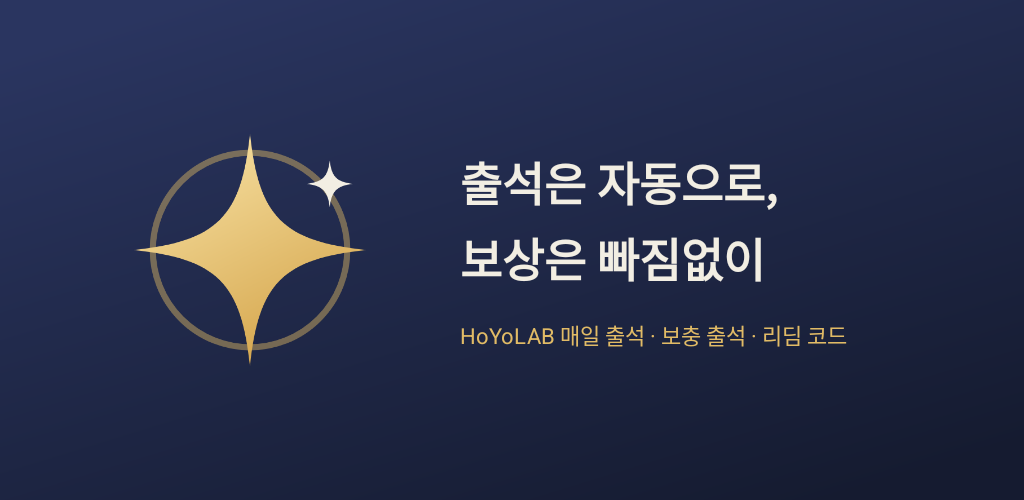
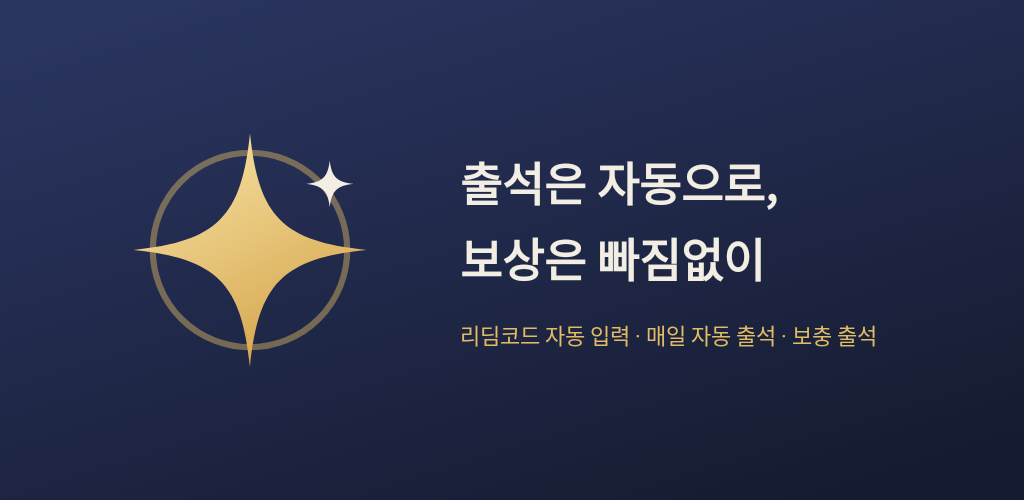
스토어: 리딤을 앞세운 문구와 스크린샷, 코드 공개 안내
- 스크린샷 3장에 큰 문구를 얹고 리딤 장면을 첫 장으로
- 대표 이미지 부제에서 리딤코드를 맨 앞으로
- 간단한 설명에 원석, 자세한 설명에 소스 공개 링크

Claude-Session: https://claude.ai/code/session_01AVkzu9p2ytMeGHejvvs68H

Changed region(s): [[0.4375, 0.63, 0.875, 0.69]]

diff --git a/app/src/test/java/kr/sumi/checkin/StoreAssetsTest.kt b/app/src/test/java/kr/sumi/checkin/StoreAssetsTest.kt
@@ -60,7 +60,7 @@ class StoreAssetsTest {
                 setTextColor(context.getColor(R.color.hero_ink))
             })
             addView(TextView(context).apply {
-                text = "HoYoLAB 매일 출석 · 보충 출석 · 리딤 코드"
+                text = "리딤코드 자동 입력 · 매일 자동 출석 · 보충 출석"
                 textSize = 22f
                 setPadding(0, 28, 0, 0)
                 setTextColor(context.getColor(R.color.gold))
@@ -87,18 +87,86 @@ class StoreAssetsTest {
         redeemSummary = "10월 18일 01:05 · 새 코드 1개 입력: OKTCV81F9H8D", historyUnseen = 3,
     )
 
-    private fun screenshot(state: MainUiState, night: Boolean) {
+    /** 방송 직후처럼 새 코드 여러 개를 넣은 상태. 리딤 장면 스크린샷용. */
+    private val redeemed = signed.copy(
+        redeemSummary = "10월 18일 21:12 · 새 코드 3개 입력: 5T8B9KQW2RJM, GA7TQLBCNS9V, VAPTVN8B2R5H",
+    )
+
+    /**
+     * 스토어 스크린샷 1080×2160: 위에 큰 문구, 아래에 실제 앱 화면(activity_main)을 줄여 얹는다.
+     * scrollToRedeem이면 화면을 리딤 코드 칸부터 보이게 내린다.
+     */
+    private fun screenshot(state: MainUiState, night: Boolean, title: String, sub: String, scrollToRedeem: Boolean = false) {
         // 1080×2160 화면을 420dpi로 그린다(일반적인 휴대폰 밀도).
         paparazzi.unsafeUpdateConfig(DeviceConfig.PIXEL_6.copy(
             screenWidth = 1080, screenHeight = 2160, nightMode = if (night) NightMode.NIGHT else NightMode.NOTNIGHT,
         ))
-        val view = paparazzi.inflate<View>(R.layout.activity_main)
-        view.isVerticalScrollBarEnabled = false
-        MainScreen(view).render(state)
-        paparazzi.snapshot(view)
+        val context = paparazzi.context
+        val app = paparazzi.inflate<android.widget.ScrollView>(R.layout.activity_main)
+        app.isVerticalScrollBarEnabled = false
+        MainScreen(app).render(state)
+        if (scrollToRedeem) {
+            app.measure(View.MeasureSpec.makeMeasureSpec(1080, View.MeasureSpec.EXACTLY), View.MeasureSpec.makeMeasureSpec(2160, View.MeasureSpec.EXACTLY))
+            app.layout(0, 0, 1080, 2160)
+            val group = app.findViewById<View>(R.id.redeemGroup)
+            app.scrollTo(0, group.top - (44 * context.resources.displayMetrics.density).toInt())
+        }
+
+        // 앱 화면은 실제 크기(1080px 폭)로 배치하고 0.84배로 줄여 둥근 모서리 안에 넣는다.
+        val scale = 0.84f
+        val screen = FrameLayout(context).apply {
+            background = android.graphics.drawable.GradientDrawable().apply {
+                cornerRadius = 64f
+                setColor(context.getColor(R.color.bg))
+                setStroke(4, context.getColor(R.color.hero_line))
+            }
+            clipToOutline = true
+            addView(app, FrameLayout.LayoutParams(MATCH_PARENT, MATCH_PARENT))
+            pivotX = 540f
+            pivotY = 0f
+            scaleX = scale
+            scaleY = scale
+            translationY = 540f
+        }
+        val caption = LinearLayout(context).apply {
+            orientation = LinearLayout.VERTICAL
+            gravity = Gravity.CENTER_HORIZONTAL
+            setPadding(72, 150, 72, 0)
+            addView(TextView(context).apply {
+                text = title
+                textSize = 30f
+                gravity = Gravity.CENTER
+                setLineSpacing(0f, 1.15f)
+                setTypeface(typeface, Typeface.BOLD)
+                setTextColor(context.getColor(R.color.hero_ink))
+            })
+            addView(TextView(context).apply {
+                text = sub
+                textSize = 16f
+                gravity = Gravity.CENTER
+                setPadding(0, 36, 0, 0)
+                setTextColor(context.getColor(R.color.gold))
+            })
+        }
+        paparazzi.snapshot(FrameLayout(context).apply {
+            setBackgroundResource(R.drawable.ic_launcher_background)
+            addView(screen, FrameLayout.LayoutParams(1080, 2160))
+            addView(caption, FrameLayout.LayoutParams(MATCH_PARENT, WRAP_CONTENT))
+        })
     }
 
-    @Test fun screenshotLight() = screenshot(signed, night = false)
-    @Test fun screenshotDark() = screenshot(signed, night = true)
-    @Test fun screenshotLoggedOut() = screenshot(MainUiState(loggedIn = false, month = 10), night = false)
+    @Test fun screenshot1Redeem() = screenshot(
+        redeemed, night = false, scrollToRedeem = true,
+        title = "방송 리딤코드,\n알아서 입력돼요", sub = "새 코드가 나오면 고른 캐릭터로 자동 입력",
+    )
+
+    @Test fun screenshot2CheckIn() = screenshot(
+        signed, night = false,
+        title = "새벽 1시, 서버 시각에\n자동 출석", sub = "놓친 날은 보충 출석까지 알려 드려요",
+    )
+
+    @Test fun screenshot3Dark() = screenshot(
+        signed, night = true,
+        title = "여러 계정도\n차례로 자동 출석", sub = "광고 없이, 로그인 정보는 폰 안에만",
+    )
 }
